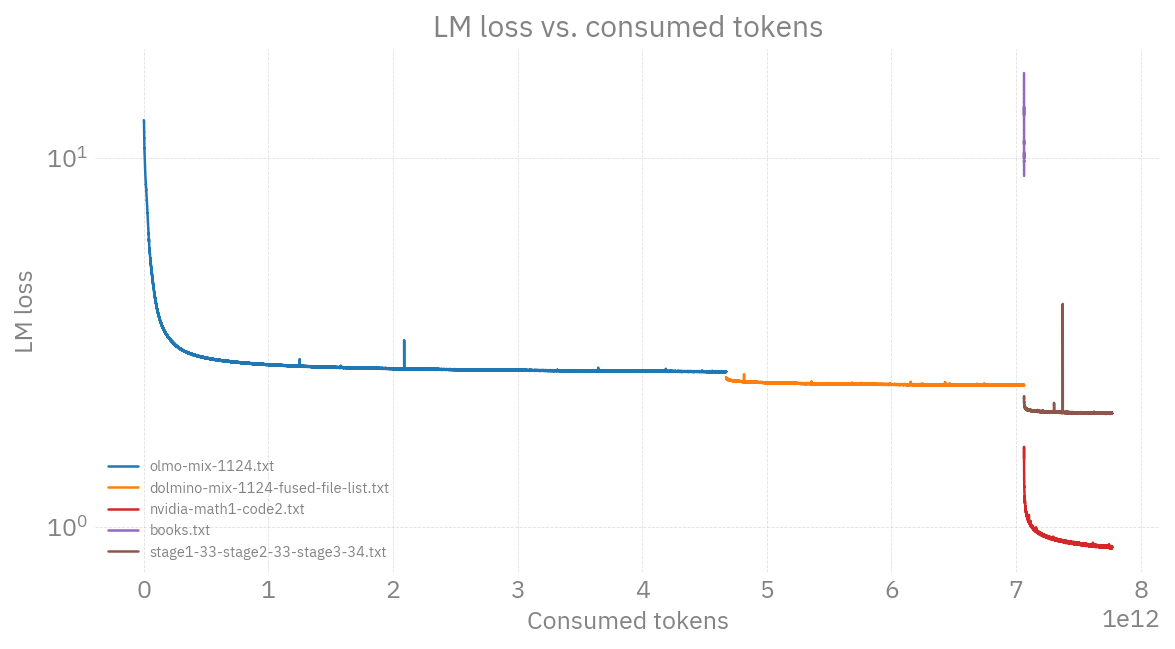
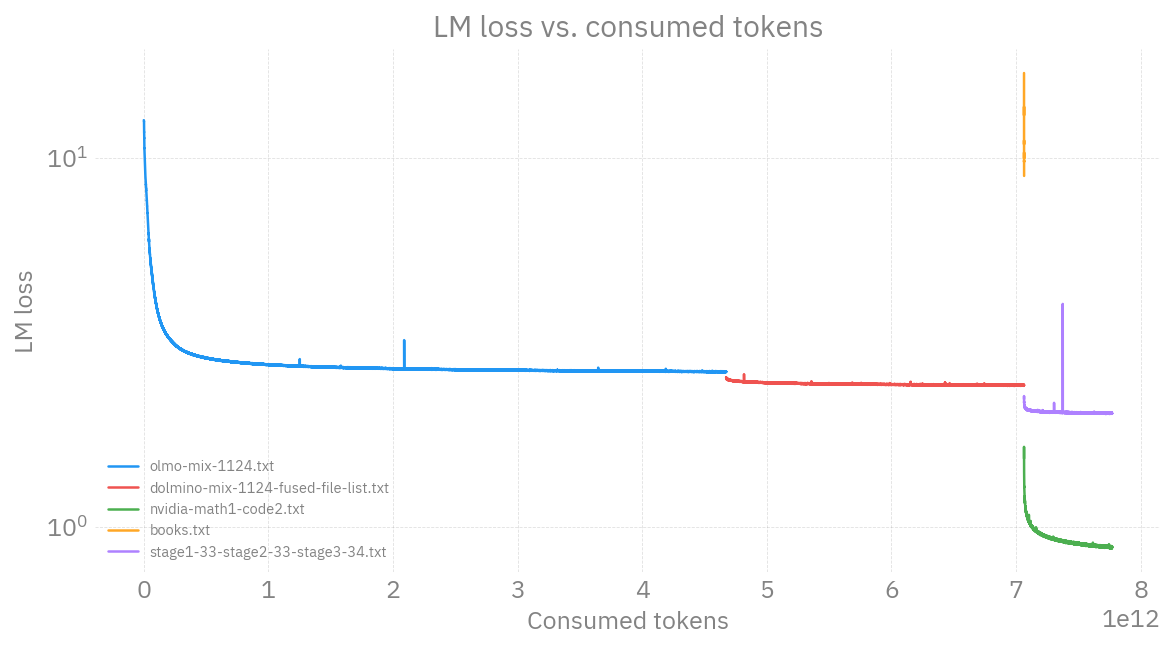
fix: Use ambivalent color cycle for training report plots
The previous version overrode the active matplotlib style by passing
color=cmap(i) from tab10, defeating the point of plt.style.use(ambivalent).
Drop the override so each curve inherits the next color in the
ambivalent prop_cycle.

diff --git a/ALCF/AuroraGPT/2B/scripts/generate_report.py b/ALCF/AuroraGPT/2B/scripts/generate_report.py
@@ -203,8 +203,7 @@ def plot_panel(
 ) -> None:
     fig, ax = plt.subplots(figsize=(8, 4.5))
     drew_any = False
-    cmap = plt.get_cmap("tab10")
-    for i, (gkey, runs_in_group) in enumerate(runs_by_group.items()):
+    for gkey, runs_in_group in runs_by_group.items():
         xs: list[np.ndarray] = []
         ys: list[np.ndarray] = []
         for run in runs_in_group:
@@ -234,7 +233,7 @@ def plot_panel(
         # data-file-list is the only one worth showing in the legend.
         dfl = gkey[5] or "(unknown data)"
         dfl_short = Path(dfl).name if dfl else "?"
-        ax.plot(x, y, label=dfl_short, color=cmap(i % 10), linewidth=1.2)
+        ax.plot(x, y, label=dfl_short, linewidth=1.2)
         drew_any = True
     if not drew_any:
         plt.close(fig)
